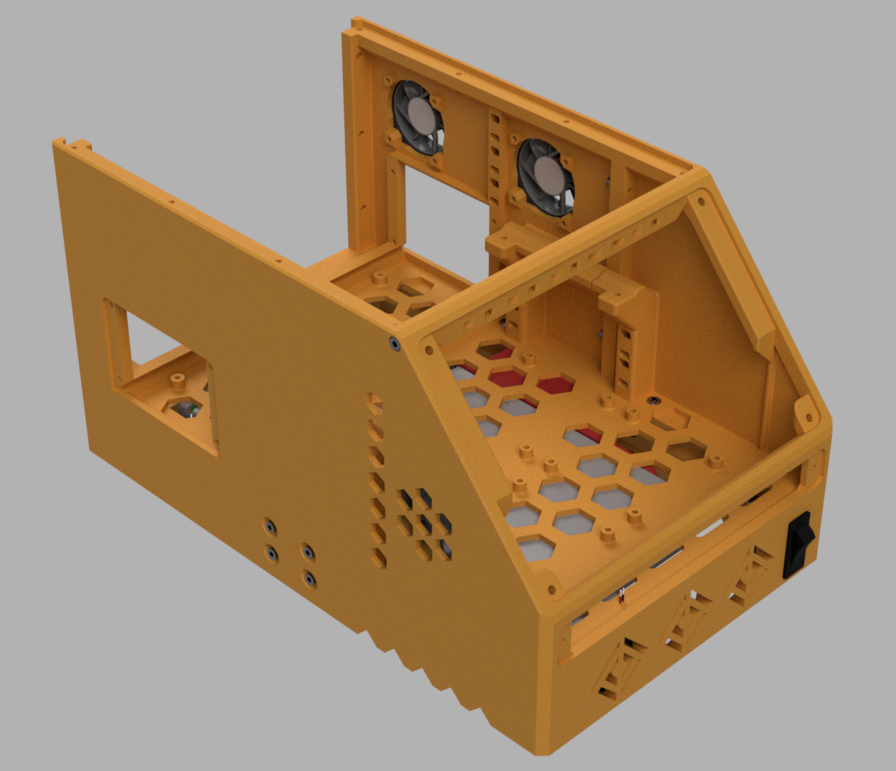
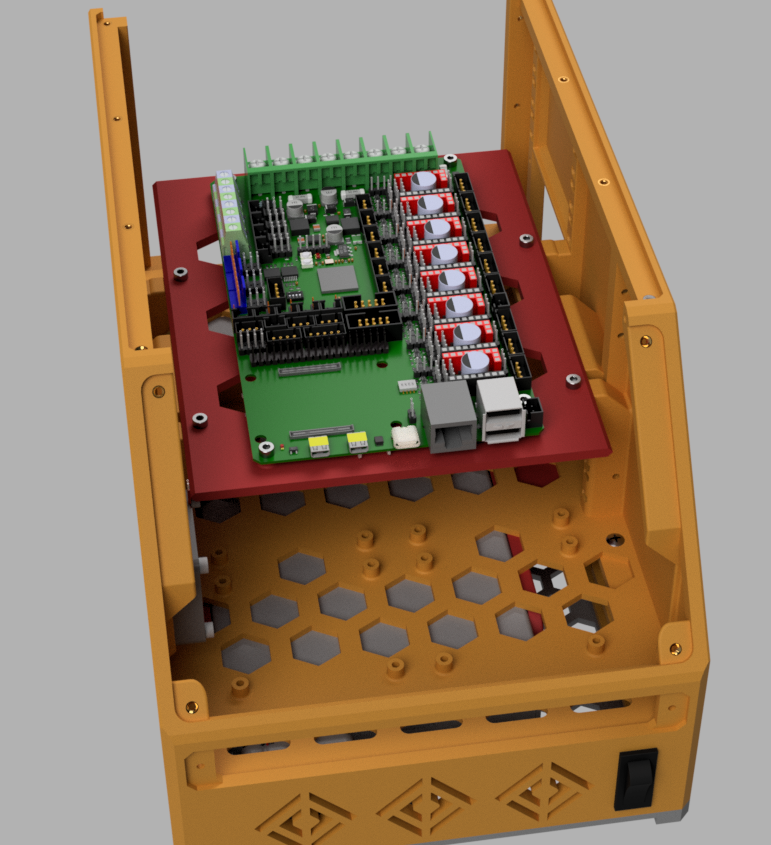
New renders, doc updates on progress

diff --git a/docs/history/index.md b/docs/history/index.md
@@ -39,8 +39,9 @@ The current release is 0.9.9, released on 2022-11-??.
 - **Base:** All three front vents how have 40mm fan mounts.
 - **CPU Trays** New template and tray design
     - Old trays still work.
-    - New tray is an easier print with fewer supports needed.
+    - New tray is an easier print with fewer supports needed, can be printed in one of two orientations.
     - New releases will only include new trays.
+    - Added Raspberry Pi tray with a 40mm fan intake.
 
 ### Completed Requests
 
@@ -49,6 +50,7 @@ The current release is 0.9.9, released on 2022-11-??.
 | Bottom panel | Bottom Panel | Has cutouts for speed/strength, but too small for kids' fingers. |
 | Closed bottom panel | Bottom Panel | Solid to prevent dust intrusion. |
 | Unified base | Core | This is a one-piece version of the base. |
+| Keystone jacks | Front/side/rear panels | Added STEP file for mating part to build into panels. |
 
 ### New Hardware Support
 
@@ -64,7 +66,11 @@ These parts still need to be tested for fit and any other issues.
 | Hardware | Mount Location(s) | Notes |
 |----------|-------------------|-------|
 | Mean Well RSP-500 power supply | Main body | For the Ender 5 Plus |
-| 92mm fans | Rear panel, lid | 25mm thickness; no specific mount yet. |
+| 92mm fans | Rear panel, lid | 25mm thickness only. |
+| 120mm fans | Lid | 20 & 25mm thicknesses |
+| BIGTREETECH Manta M8P | MCU Tray | |
+| BIGTREETECH 5" TFT | Display Panel | |
+| BIGTREETECH UPS 24V 1.0 | Lower Bay | Short tray only. |
 
 ## Fixes
 
@@ -81,11 +87,13 @@ These parts still need to be tested for fit and any other issues.
 
 ## Documentation & Repository
 
-- Documentation site
+- [Documentation site](https://jon-harper.github.io/OmniBox)
     - Added tooltips to links
     - Consolidated external links to a reference page for convenience
-- Repository
+- [Repository](https://github.com/jon-harper/OmniBox)
     - Added `/include` subfolder for external documentation files
+    - Renamed "Fan Cages" to "Fans"
+    - Further divided lids folders for ease of navigation.
 
 <!-- ## Known Issues -->
 
@@ -93,37 +101,42 @@ These parts still need to be tested for fit and any other issues.
 
 <figure markdown>
   [![front right render][11]{ width="480" }][11]
-  <figcaption>1. The CPU bay is now part of the rear body. 2. The power supply has additional ventilation in front. 3. Optional Neopixel LEDs are visible behind the front vent.</figcaption>
+  <figcaption>1. The CPU bay is now part of the rear body.<br>2. The power supply area has an extra vent in front.<br>3. 40mm, 80mm, 92mm, and 120mm fans are now supported as lid mounts.</figcaption>
 </figure>
 
 <figure markdown>
   [![front left render][12]{ width="480" }][12]
-  <figcaption>There is a matching CPU bay on the opposite side.</figcaption>
+  <figcaption>1. There is a matching CPU bay on the opposite side.<br>2. Optional Neopixel LEDs are visible behind the front vent.</figcaption>
 </figure>
 
 <figure markdown>
-  [![front right render][14]{ width="480" }][14]
-  <figcaption>Universal power supply mount. The mount is off-center and has a passthrough for power switch wiring.</figcaption>
+  [![render from front and undearneath][14]{ width="480" }][14]
+  <figcaption>New universal power supply mount. The mount is off-center and has a passthrough for power switch wiring.</figcaption>
 </figure>
 
 <figure markdown>
-  [![front left render][13]{ width="480" }][13]
-  <figcaption>1. The power supply no longer hangs freely. When installed it adds rigidity to the case. 2. Each front vent has an optional fan mount on the inside (one is occupied in the render).</figcaption>
+  [![render from the side and underneath][13]{ width="480" }][13]
+  <figcaption>1. The power supply no longer hangs freely. When installed it adds rigidity to the case.<br>2. Each front vent has an optional fan mount on the inside.</figcaption>
 </figure>
 
 <figure markdown>
-  [![front right render][15]{ width="480" }][15]
-  <figcaption>The MCU tray is moved slightly forward and now mounts with M3 screws. The rear wiring passthrough no longer exposes the power socket.</figcaption>
+  [![render from the top right rear without rear or top panels on][15]{ width="480" }][15]
+  <figcaption>1. The MCU tray is moved slightly forward and now mounts with M3 screws.<br>2. The rear wiring passthrough no longer exposes the power socket.<br>3. Support for keystone jacks (unoccupied in the render).</figcaption>
 </figure>
 
 <figure markdown>
-  [![front left render][17]{ width="480" }][17]
-  <figcaption>Hex flooring for better ventilation and sturdier build.</figcaption>
+  [![render of the Core of an OmniBox with a Manta MCU mounted][17]{ width="480" }][17]
+  <figcaption>1. Experimental support for the BIGTREETECH Manta M8P (CB1 not pictured).<br>2. Hex flooring for better ventilation and sturdier build.</figcaption>
 </figure>
 
 <figure markdown>
-  [![front left render][16]{ width="480" }][16]
-  <figcaption>The two CPU bays are elevated to make room for lower bay tray mounts. Unused bays can hold a short lower bay tray.</figcaption>
+  [![render of an OmniBox Core from the rear without any panels installed][16]{ width="480" }][16]
+  <figcaption>1. The two CPU bays are elevated to make room for lower bay tray mounts in unused bays.<br>2. Optional brass heat set inserts.</figcaption>
+</figure>
+
+<figure markdown>
+  [![render from below showing the bottom panel][18]{ width="480" }][16]
+  <figcaption>The new bottom panel fully encloses the case. It can be printed with holes for airflow or closed to prevent dust intrusion.</figcaption>
 </figure>
 
 [1]: https://github.com/jon-harper/OmniBox/issues/14
@@ -139,3 +152,5 @@ These parts still need to be tested for fit and any other issues.
 [15]: ../img/gallery_0.9.9/render5.png
 [16]: ../img/gallery_0.9.9/render6.png
 [17]: ../img/gallery_0.9.9/render7.png
+[18]: ../img/gallery_0.9.9/render8.png
+[19]: ../img/gallery_0.9.9/render9.png

diff --git a/docs/printing.md b/docs/printing.md
@@ -22,7 +22,7 @@ These settings are consistent for all parts.
 | Material           | PLA/PLA+    | PETG may take longer to print on many printers but is still possible. |
 | Nozzle Diameter    | 0.4mm       | 0.6mm should also work. If you print a case with a different nozzle size, please share your results! |
 
-### Printing :material-alpha-c-box: Core Components
+### Settings Specific to :material-alpha-c-box: Core
 
 - Supports should be left on.
 - Support blockers are recommended for all zip tie anchors and can be used for fastener holes, as well.
